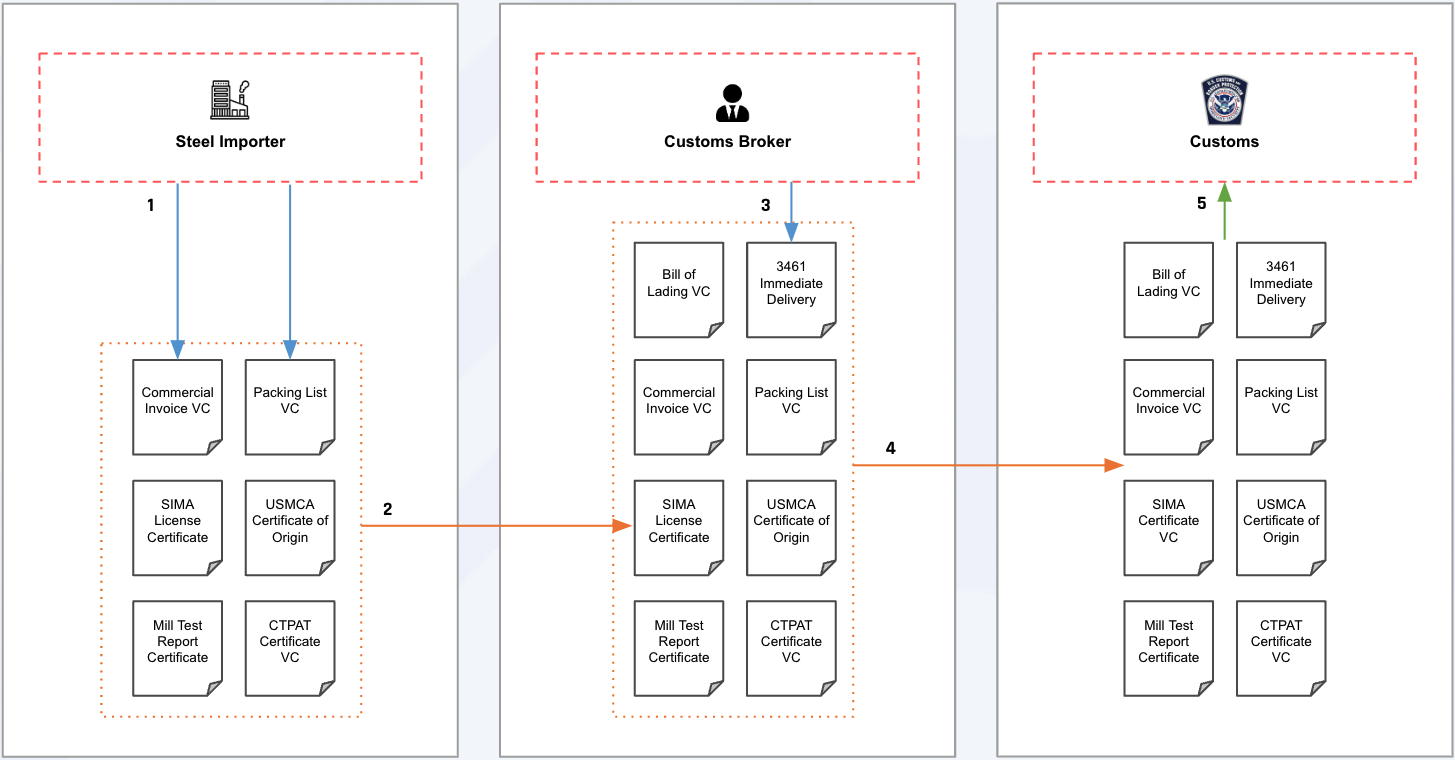
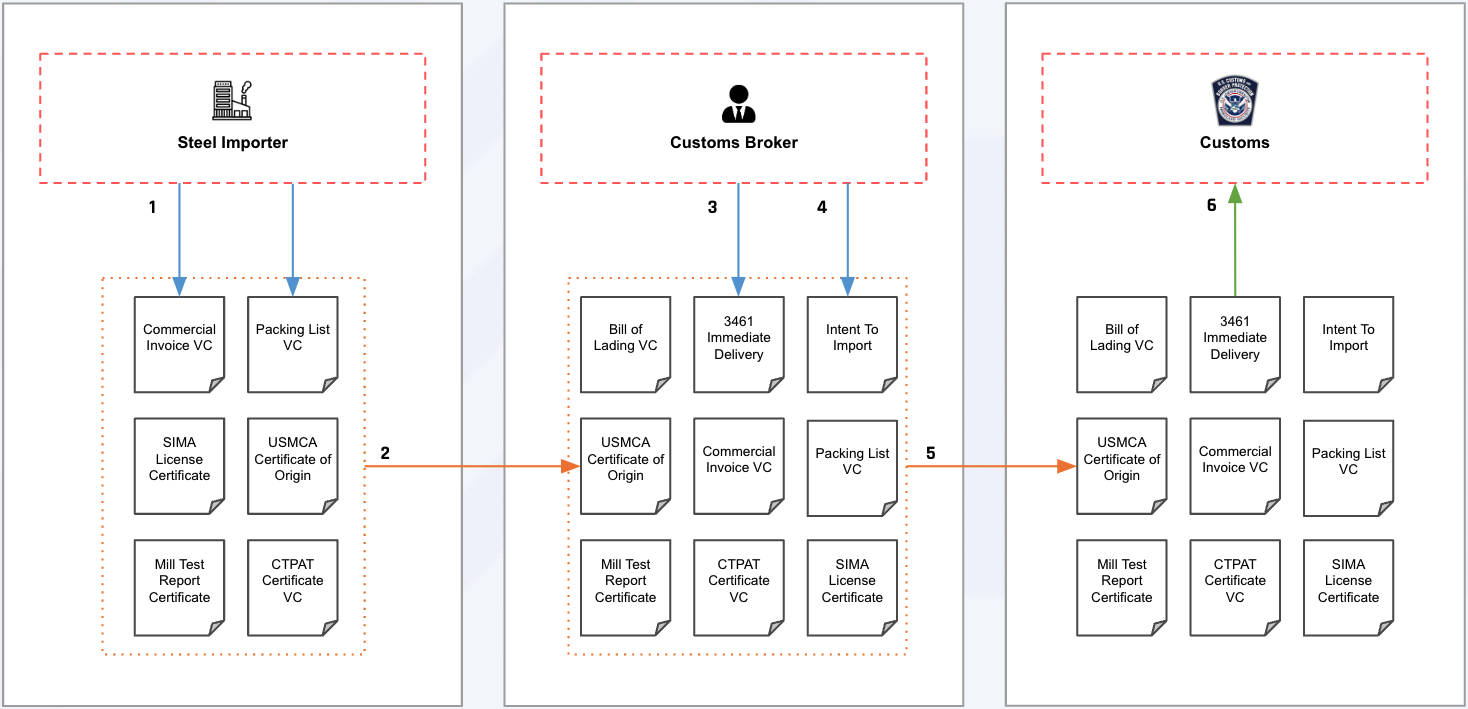
feat: iti added to customs broker workflow

diff --git a/docs/index.html b/docs/index.html
@@ -738,10 +738,12 @@ Issuers are advised to review the JSON-LD and all associated terms before issuin
         Steel Importer issues Commercial Invoice (1) and Packing List (2) in relation to a shipment of steel. These are presented to the Customs Broker along a SIMA License, a USMCA Declaration, a Mill Test Report and a CTPAT Importer Certificate. 
       </p>
       <p>
-        The Customs Broker issues a 3461 Immediate Delivery certificate (3), and has received the Bill of Lading from the carriers. The full pouch of documents are presented to Customs (4) for verification (5) and import processing. 
+        The Customs Broker issues 3461 Immediate Delivery (3) and Intent To Import certificates (4), and has received the Bill of Lading from the carrier. 
       </p>
-      
-      </section>
+      <p>
+        The full pouch of documents are presented to Customs (5) for verification (6) and import processing.
+      </p>
+    </section>
 
       <section>
         <h5>Food and Agriculture</h5>
